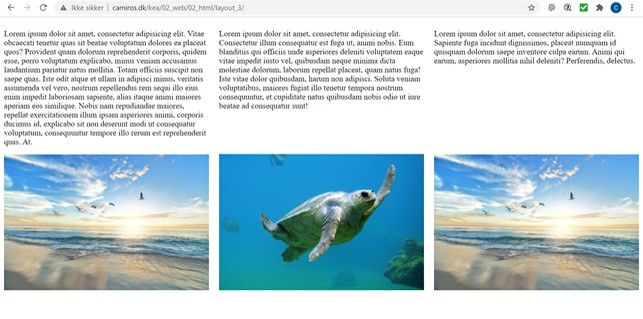
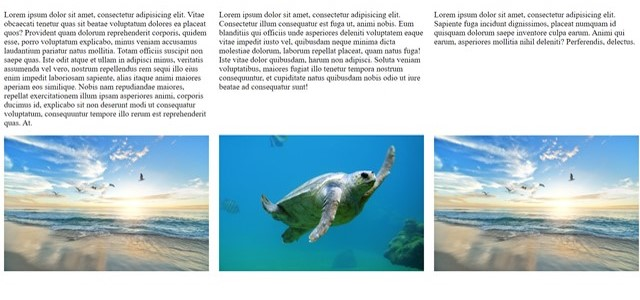
Tema 2, web er færdig med alt indhold

diff --git a/ux.html b/ux.html
@@ -52,6 +52,160 @@
          </section>
 
 
+         <section id="underside_section_2">
+
+            <div id="div_underside_section_2"> <h2>Tema 2 - Web</h2> <p>Lorem ipsum 
+                dolor sit amet consectetur,
+                 adipisicing elit. Eum dolorum 
+                dolore odit eos ducimus amet perferendis voluptates in aut quis.
+                Lorem ipsum dolor sit amet consectetur,
+                adipisicing elit. <br> Eum dolorum 
+               dolore odit eos ducimus amet perferendis 
+               voluptates in aut quis. Lorem ipsum dolor 
+               sit amet consectetur adipisicing elit. Autem 
+               id fugit nobis earum. Molestias harum culpa, 
+               nulla cupiditate distinctio perferendis?
+            </p>
+                        
+            </div>  </section>
+            
+            
+            <section class="underside_section_3">
+            
+            <div id="billed1_web"> <img src="billeder_web/Tema_2_moodboard.jpg" alt="Tema_2_moodboard">               </div>
+            <div id="tekst1_web"> <h3>Stilart og moodboard</h3>
+            
+                <p> Som noget af det første på dette tema, fik vi til opgave at
+                 undersøge en stilart. Jeg og min gruppe fik tildelt stilen: Neumorphism. 
+                 Vi fandt frem til via en deskresearch, at det særligt
+                  karakteristiske ved denne stil, er; det bløde design, skygger, 
+                  Plastik looket, og oplevelsen af 3D knapper. I forbindelsen med opgaven, 
+                  blev vi for første gang introduceret for moodboardet. 
+                  Vores moodboard skulle indeholde generelle eksempler på designs 
+                  inde for stilen. 
+                  Et moodboard er et kreativ værktøj, 
+                  det kan være en planche, slide eller tavle, hvor man kan sætte gang i design processen. Det kan indeholde collager af billeder, tekst eller video og har til formål at beskrive en stil og tone visuelt.
+                   I de øvrige opgaver, vi sidenhen har lavet, har moodbardet været et vigtigt værktøj
+                </p> </div>
+            
+            
+            
+            
+                
+            
+            </section>
+            
+            
+            
+            <section class="underside_section_4">
+            
+                <div id="billed2_web"> <img src="billeder_web/Tema_2_style_tile.jpg" alt="Tema 2 STyleTile">               </div>
+                <div id="tekst2_web"> <h3>Style Tile</h3>
+                
+                    <p> 
+            
+                        Vi blev på dette tema, også introduceret for værktøjet; 
+                        StyleTile. I denne opgave som skulle vise i et Style Tile 
+                        hvordan overskrifter, brødtekst og UI-elementer var designet,
+                         på et site vi skulle finde. Sitet  skulle havde samme stilart,
+                          eller næsten magen til som i vores tilfælde; Neumorphism. 
+            
+                        
+                    </p> </div>
+                
+                
+                
+                
+                    
+                
+                </section>
+                
+                
+            
+                <section class="underside_section_5">
+            
+                    <div id="billed3_web"> <img src="billeder_web/tema_2_grid.jpg" alt="Tema_2_moodboard">               </div>
+                    <div id="tekst3_web"> <h3>Grid </h3>
+                    
+                        <p> 
+                
+                        
+            
+                            Derudover lavede vi dette tema, en masse små opgaver som skulle klæde os på,
+                             til det store projekt responsive site 1 og 2. Vi blev b.la. introduceret 
+                             for struktur sproget HTML, og layout sproget CSS. I denne opgave,
+                              som er vist på skærmen, skulle vi bruge grid til at layoutte vores side.
+                             (Skal omformlurers, mere uddybende og forstå det også!)
+                
+                            
+                        </p> </div>
+                    
+                    
+                    
+                    
+                        
+                    
+                    </section>
+            
+            
+            
+            
+                    <section class="underside_section_6">
+            
+                     <div id="billed4_web">   <img src="billeder_web/computer_reponsive.jpg" alt=""></div>
+                        
+                    
+                        
+                    </div>
+                        
+                            
+                        
+                        </section>
+            
+                        <section class="underside_section_7">
+            
+                            <div id="tekst_section_7"> 
+                                <div id="h3_section_7"> <h3>Responsive site v2</h3> 
+                        
+                              <p>  I dette projekt, skulle vi lære at kode responsive sites. Det vil sige, at vores design skulle kunne tilpasse dig alle skærm størrelser og stadig se pænt ud. Vi blev i den forbindelse introducerede for mediaqueries, som er en teknik, som netop sørger for at skabe et fleksibelt layout. 
+                                I opgaven tog vi udgangspunkt i ”Moblie First” hvilket vil sige, at vi startede med at kode mobilversionen. Jeg brugte bl.a. mediaqueries, til at tilpasse mine skrift størrelser afhængig af skærm størrelsen. Jeg brugte også en mediaqueri, til at tilpasse mine sektioner på store skærme hvor jeg indsatte et grid.  
+                                Til opgaven stiftede vi også bekendtskab med visualiseringsværktøjet; wireframes, dette værktøj brugte jeg til at holde fokus på sitets grundlæggende layout, senere hen har vi selv skulle tegne wireframes, både i hånd og XD. 
+                                Vi skulle samle content til vores site, ud fra eget valg. Jeg lavede et website med krydderier.
+                            </p>
+                
+                
+                               </div>
+                               
+
+
+
+
+
+
+
+
+
+
+
+
+
+
+
+
+
+
+
+
+
+
+
+
+
+
+
+
+
+
 
 
     </main>

diff --git a/style.css b/style.css
@@ -195,14 +195,33 @@ li:hover {
   padding: 15px;
 }
 .underside_section_5 p {
-  font-family: "Mukta", sans-serif;
+  font-family: "Work Sans", sans-serif;
   padding: 15px;
 }
 
 .underside_section_5 #billed3_web {
-  /* border: solid; */
   height: auto;
   width: 50vw;
+  padding: 15px;
+}
+
+.underside_section_6 h3 {
+  font-family: "Cormorant Garamond", serif;
+  margin-top: 20px;
+  padding: 15px;
+}
+#billed4_web {
+  padding-left: 10vw;
+}
+
+.underside_section_7 h3 {
+  font-family: "Cormorant Garamond", serif;
+  margin-top: 20px;
+  padding: 15px;
+}
+.underside_section_7 p {
+  font-family: "Work Sans", sans-serif;
+  margin-top: 2px;
   padding: 15px;
 }
 
@@ -253,6 +272,7 @@ li:hover {
     display: grid;
     grid-template-columns: 1fr 1fr 1fr 1fr;
     grid-template-rows: 1fr;
+    background-color: lightgrey;
   }
   #billed2_web {
     grid-column: 1 /2;
@@ -263,6 +283,32 @@ li:hover {
     grid-column: 2 /5;
     grid-row: 1;
     padding: 10px;
+  }
+  .underside_section_5 {
+    display: grid;
+    grid-template-columns: 1fr 1fr 1fr 1fr;
+    grid-template-rows: 1fr;
+  }
+  #billed3_web {
+    grid-column: 1 /2;
+    grid-row: 1;
+    margin-top: 35px;
+  }
+  #tekst3_web {
+    grid-column: 2 /5;
+    grid-row: 1;
+    padding: 10px;
+  }
+
+  .underside_section_6 {
+    display: grid;
+    grid-template-columns: 1fr 2fr 1fr;
+  }
+
+  #billed4_web {
+    grid-column: 2;
+    margin-top: 12vw;
+    padding: 0%;
   }
 }
 
@@ -372,6 +418,7 @@ li:hover {
     display: grid;
     grid-template-columns: 1fr 1fr 1fr 1fr;
     grid-template-rows: 1fr;
+    background-color: lightgrey;
   }
   #billed2_web {
     grid-column: 1 /2;
@@ -396,5 +443,56 @@ li:hover {
     grid-row: 2;
     padding: 30px;
     padding-left: 20px;
+  }
+  /***/
+
+  .underside_section_5 {
+    display: grid;
+    grid-template-columns: 1fr 1fr 1fr 1fr;
+    grid-template-rows: 1fr;
+  }
+  #billed3_web {
+    grid-column: 1 /2;
+    grid-row: 1;
+    margin-top: 35px;
+  }
+  #tekst3_web {
+    grid-column: 2 /5;
+    grid-row: 1;
+    padding: 10px;
+  }
+
+  /* .underside_section_6 {
+    display: grid;
+    grid-template-columns: 1fr 2fr 1fr;
+    grid-template-rows: 1fr 1fr 1fr;
+  }
+
+  #billed4_web {
+    grid-column: 2;
+    margin-bottom: 1px;
+  }
+
+  #h3_section_6 {
+    display: grid;
+    grid-column: 1;
+    grid-template-rows: 1;
+    padding: 20px;
+  } */
+
+  .underside_section_6 {
+    display: grid;
+    grid-template-columns: 1fr 2fr 1fr;
+  }
+
+  #billed4_web {
+    grid-column: 2;
+    margin-top: 12vw;
+    padding: 0%;
+  }
+
+  .underside_section_7 {
+    display: grid;
+    grid-template-columns: 2fr 1fr;
   }
 }

diff --git a/web.html b/web.html
@@ -154,9 +154,35 @@
 
 
 
+        <section class="underside_section_6">
 
+         <div id="billed4_web">   <img src="billeder_web/computer_reponsive.jpg" alt=""></div>
+            
+        
+            
+        </div>
+            
+                
+            
+            </section>
 
+            <section class="underside_section_7">
 
+                <div id="tekst_section_7"> 
+                    <div id="h3_section_7"> <h3>Responsive site v2</h3> 
+            
+                  <p>  I dette projekt, skulle vi lære at kode responsive sites. Det vil sige, at vores design skulle kunne tilpasse dig alle skærm størrelser og stadig se pænt ud. Vi blev i den forbindelse introducerede for mediaqueries, som er en teknik, som netop sørger for at skabe et fleksibelt layout. 
+                    I opgaven tog vi udgangspunkt i ”Moblie First” hvilket vil sige, at vi startede med at kode mobilversionen. Jeg brugte bl.a. mediaqueries, til at tilpasse mine skrift størrelser afhængig af skærm størrelsen. Jeg brugte også en mediaqueri, til at tilpasse mine sektioner på store skærme hvor jeg indsatte et grid.  
+                    Til opgaven stiftede vi også bekendtskab med visualiseringsværktøjet; wireframes, dette værktøj brugte jeg til at holde fokus på sitets grundlæggende layout, senere hen har vi selv skulle tegne wireframes, både i hånd og XD. 
+                    Vi skulle samle content til vores site, ud fra eget valg. Jeg lavede et website med krydderier.
+                </p>
+    
+    
+                   </div>
+                   
+                       
+                   
+                   </section>
 
 
 <section></section>
